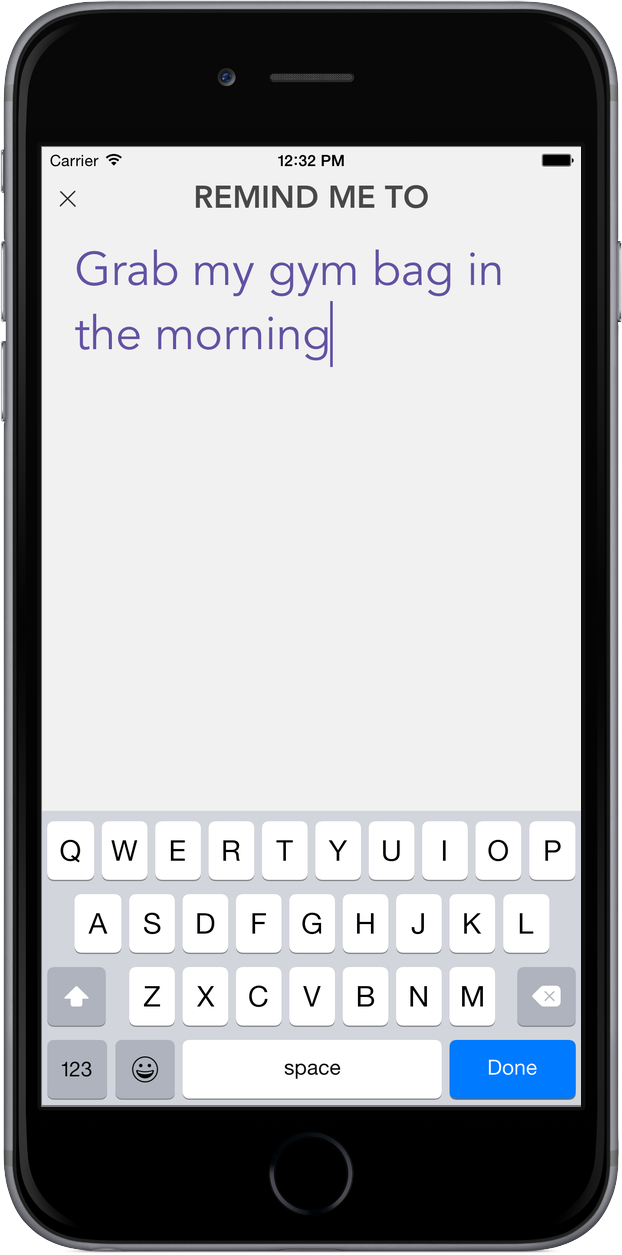
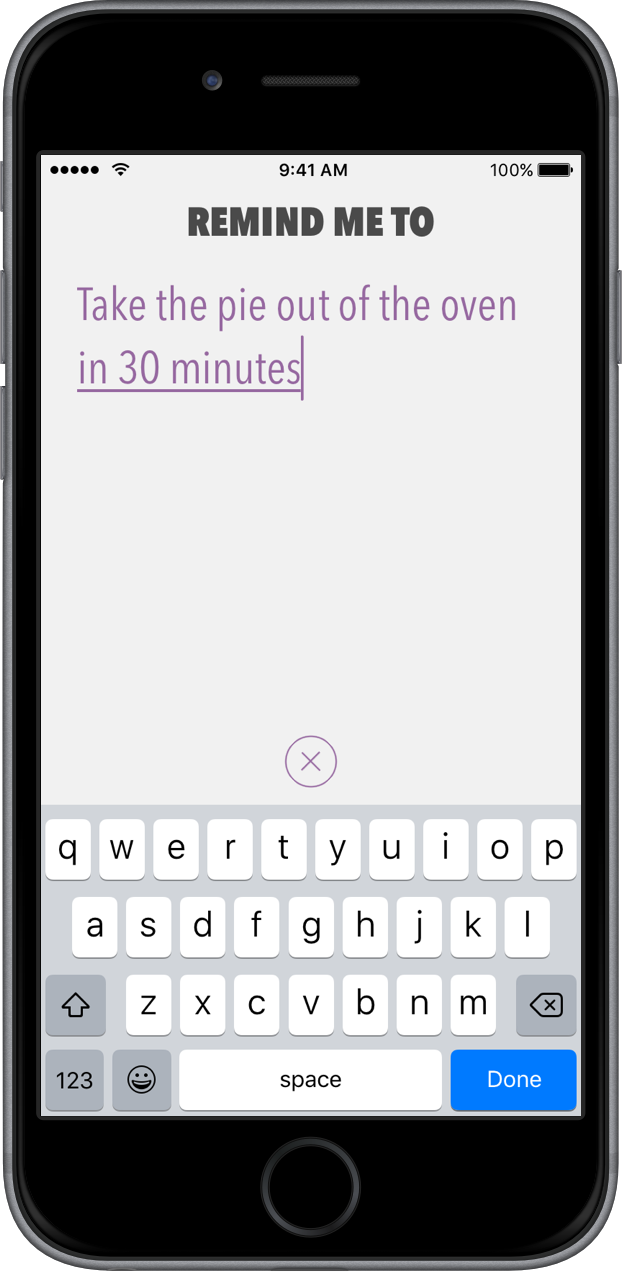
Updates screenshot and text colors

Changed region(s): [[0.0, 0.0, 1.0, 1.0]]

diff --git a/css/main.css b/css/main.css
@@ -50,11 +50,11 @@ a:hover {
 h1, h2, h3, h4 h5 {
   font-family: "HelveticaNeue-CondensedBold", "Arial Narrow", "Helvetica Neue", Arial, sans-serif;
   font-weight: bold;
-  color: rgb(0, 173, 181);
+  color: #9668A0;
 }
 
 p {
-  color: rgb(0, 173, 181);
+  color: #9668A0;
 }
 
 h1 {
@@ -80,22 +80,18 @@ header {
 header h1 {
   margin: 0;
   font-family: "HelveticaNeue-CondensedBold", "Arial Narrow", Arial, sans-serif;
-  line-height: 1.5;
-}
-
-header h2 {
-  margin: -0.7em 0 0;
-  font-size: 1.25rem;
-}
-
-header h1 {
   line-height: 1.375;
 }
 
 header h2 {
   margin: -0.7em 0 0;
   font-size: 1.25rem;
-  color: rgb(0, 173, 181);
+}
+
+header h2 {
+  margin: -0.7em 0 0;
+  font-size: 1.25rem;
+  color: #9668A0;
 }
 
 header img {
@@ -153,9 +149,9 @@ header img {
 }
 
 .button:hover {
-  background: rgb(0, 173, 181);
+  background: #9668A0;
   border: 0;
-  color: rgb(0, 173, 181);
+  color: #9668A0;
 }
 
 .button:active {
@@ -191,7 +187,7 @@ footer {
 
   .valueprop {
     font-size: 1.25em;
-    color: rgb(0, 173, 181);
+    color: #9668A0;
   }
 
   aside {
@@ -222,8 +218,12 @@ footer {
 
 /*  Mail Chimp */
 
+section#mailchimp {
+  margin-top: 3em;
+}
+
 section#mailchimp p {
-  text-align: center;
+  text-align: center;  
 }
 
 #mc_embed_signup {
@@ -239,7 +239,7 @@ section#mailchimp p {
 
 #mc_embed_signup #mce-EMAIL {
   display: block;
-  color: rgb(0, 173, 181);
+  color: rgb(150, 104, 160);
   border: none;
   width: 100%;
   height: 46px;
@@ -278,7 +278,7 @@ section#mailchimp p {
 
 #mc_embed_signup #mce-responses {
   display: block;
-  color: rgb(0, 173, 181);
+  color: rgb(150, 104, 160);
 }
 
 #mc_embed_signup #mc-embedded-subscribe:hover {
@@ -298,18 +298,18 @@ section#mailchimp p {
 }
 
 ::-webkit-input-placeholder {
-  color: rgba(0, 173, 181, .6);
+  color: rgba(150, 104, 160, .6);
 }
 :-moz-placeholder { /* Firefox 18- */
-  color: rgba(0, 173, 181, .6);
+  color: rgba(150, 104, 160, .6);
 }
 
 ::-moz-placeholder {  /* Firefox 19+ */
-  color: rgba(0, 173, 181, .6);
+  color: rgba(150, 104, 160, .6);
 }
 
 :-ms-input-placeholder {
-  color: rgba(0, 173, 181, .6);
+  color: rgba(150, 104, 160, .6);
 }
 
 
@@ -354,6 +354,7 @@ body.privacy {
   #main h1 {
     margin-top: 0em;
     text-align: center;
+    width: 100%;
   }
 
   div.iphone img {
